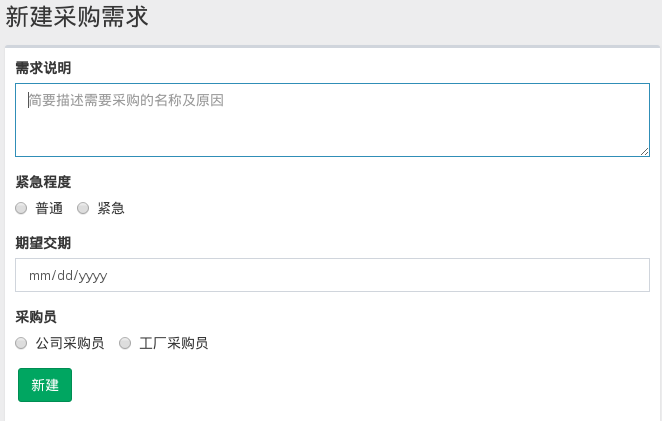
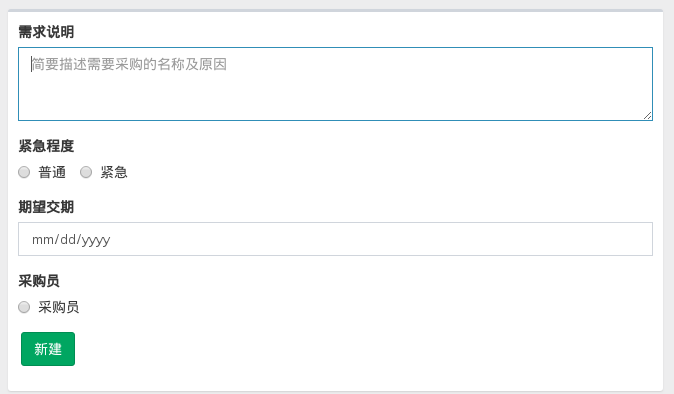
更新 采购流程

diff --git a/purchase-flow.md b/purchase-flow.md
@@ -1,0 +1,46 @@
+# 采购流程
+
+按照最新质量认证及聂老师的要求，对公司采购流程进行如下规范。采购的物品主要包括三类：原材料及辅料、外购成品和低值易耗品。
+
+> 注：此规范为试运行阶段，后期有可能调整。
+
+![](images/purchase-flow.png)
+
+## 操作流程
+
+### 1. 员工新建采购需求申请
+
+![](images/purchase-create-demand.png)
+
+### 2. 根据采购需求制定采购计划
+
+根据紧急程度和期望交期，采购员勾选采购需求，创建采购计划。并向总经理提交审批。
+
+![](images/purchase-create-plan.png)
+
+
+### 3. 总经理审批采购计划
+
+总经理收到采购计划审批提醒后打开审批页面，根据实际情况勾选批准采购的计划并提交。
+
+![](images/purchase-audit-plan.png)
+
+采购员随后将收到审批提醒，内容大致如下：
+
+![](images/purchase-audit-plan-notification.png)
+
+### 4. 根据采购计划制定采购单
+
+采购员根据采购计划审批结果，编制正式的采购单。
+
+### 5. 质检进行入库前检验
+
+货物送达后，质检进行入库前检验，并将检验结果录入系统。
+
+![](images/purchase-inspect.png)
+
+### 6. 仓管入库
+
+仓管根据检测结果，将合格品存入仓库。
+
+![](images/purchase-store.png)

diff --git a/SUMMARY.md b/SUMMARY.md
@@ -1,7 +1,7 @@
 # Summary
 
 * [Introduction](README.md)
-* [采购管理](purchase.md)
+* [采购流程](purchase-flow.md)
 * [二维码标签](qrcode-label.md)
 * [单笔结算客户先发货后付款流程](order-post-pay.md)
 
